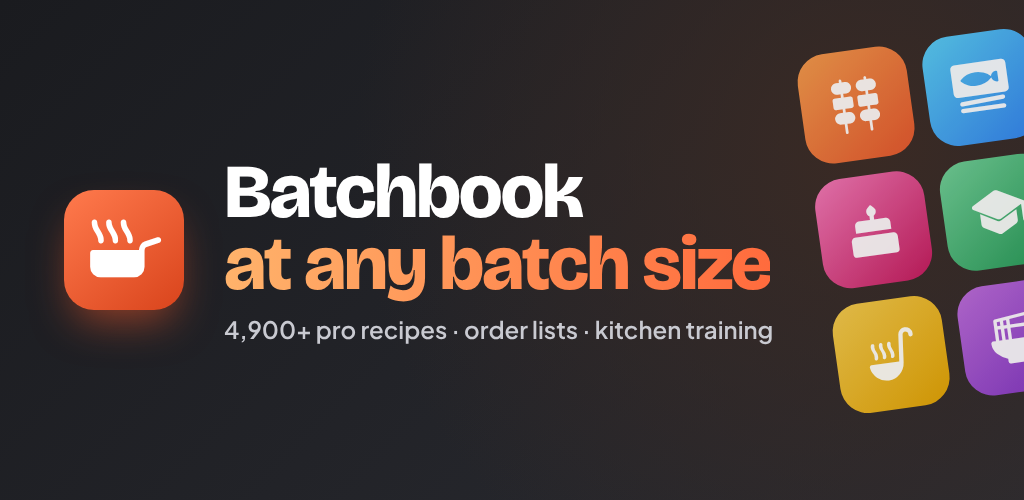
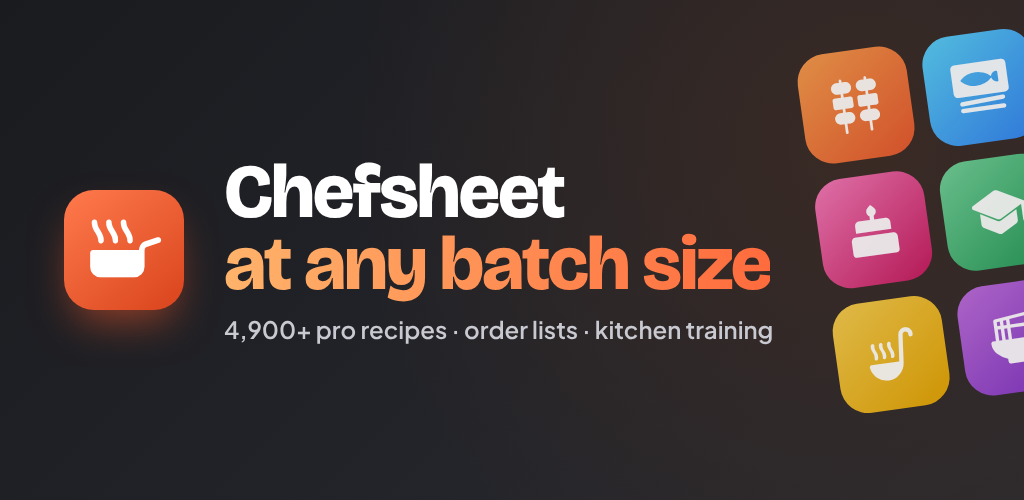
Rename the app to Chefsheet
Name, manifest, privacy policy, README, store listing, feature graphic
and screenshots. Play title shortened to 30 characters. Cache version bumped.

Claude-Session: https://claude.ai/code/session_01U632z7sGB7EKoKSd2kKhrr

Changed region(s): [[0.2188, 0.3, 0.5938, 0.45]]

diff --git a/index.html b/index.html
@@ -2,14 +2,14 @@
 <html lang="en"><head><meta charset="utf-8">
 <meta name="viewport" content="width=device-width,initial-scale=1,viewport-fit=cover">
 <meta name="description" content="Professional recipes at any batch size: 4,900+ technical recipe cards, order lists and kitchen training.">
-<meta property="og:type" content="website"><meta property="og:site_name" content="Batchbook">
-<meta property="og:title" content="Batchbook – professional recipes at any batch size">
+<meta property="og:type" content="website"><meta property="og:site_name" content="Chefsheet">
+<meta property="og:title" content="Chefsheet – professional recipes at any batch size">
 <meta property="og:description" content="4,900+ technical recipe cards for professional kitchens: scale any batch, build supplier order lists, learn with lessons and kitchen tools.">
 <meta property="og:url" content="https://plamenn000234.github.io/"><meta property="og:image" content="https://plamenn000234.github.io/store/feature-graphic-1024x500.png">
 <meta name="twitter:card" content="summary_large_image"><link rel="canonical" href="https://plamenn000234.github.io/">
 <link rel="icon" href="icon-192.png"><link rel="apple-touch-icon" href="icon-192.png">
 <style>[hidden]{display:none!important}body{margin:0}</style>
-<title>Batchbook</title>
+<title>Chefsheet</title>
 <link rel="preconnect" href="https://fonts.googleapis.com">
 <link rel="stylesheet" href="https://fonts.googleapis.com/css2?family=Bricolage+Grotesque:opsz,wght@12..96,600;12..96,700;12..96,800&family=Plus+Jakarta+Sans:wght@400;500;600;700;800&family=JetBrains+Mono:wght@500;600&display=swap">
 <link rel="manifest" href="manifest.json"><meta name="theme-color" content="#E2552B">
@@ -470,7 +470,7 @@ body.cook .sh-head h1{font-size:clamp(24px,3.4vw,34px)}
 </style>
 </head><body>
 <header class="top">
-  <a class="logo" href="#" aria-label="Batchbook home"><span class="lg"><span class="ms f">skillet</span></span><b>Batchbook</b></a>
+  <a class="logo" href="#" aria-label="Chefsheet home"><span class="lg"><span class="ms f">skillet</span></span><b>Chefsheet</b></a>
   <div class="search" role="search">
     <span class="ms" aria-hidden="true">search</span>
     <input id="q" type="search" autocomplete="off" enterkeyhint="search" placeholder="Search recipes or ingredients" aria-label="Search recipes or ingredients">
@@ -662,7 +662,7 @@ function viewHome(){
       <div class="sec"><div class="sec-h"><h2>How it works</h2></div><div class="how">
         <div>${msI("search")}<b>Find</b><p>Search by dish or by ingredient, then filter by diet, calories or the 14 allergens.</p></div>
         <div>${msI("tune")}<b>Scale</b><p>Open a recipe and set your portions. Every quantity in every component follows.</p></div>
-        <div>${msI("receipt_long")}<b>Order</b><p>Add dishes, set guests and grams per guest, and get a gross order list by section.</p></div></div>${STANDALONE?`<p class="note-line" style="text-align:center"><a href="privacy.html">Privacy policy</a> · Batchbook 1.0</p>`:""}</div>`;
+        <div>${msI("receipt_long")}<b>Order</b><p>Add dishes, set guests and grams per guest, and get a gross order list by section.</p></div></div>${STANDALONE?`<p class="note-line" style="text-align:center"><a href="privacy.html">Privacy policy</a> · Chefsheet 1.0</p>`:""}</div>`;
     return;
   }
   const list=filtered(); const title=ui.coll>=0?D.folders[ui.coll][0]:(ui.q?`Results for “${ui.q}”`:"All recipes");
@@ -871,7 +871,7 @@ function recipePdf(r,d){
     y+=4});
   if(d.st){const ls=doc.splitTextToSize(pdfSafe("Storage: "+d.st),W-2*M);page(ls.length*4.4);doc.setFontSize(9.5);doc.text(ls,M,y);y+=ls.length*4.4+2}
   if(d.nu&&d.nu.p){page(6);doc.text(pdfSafe(`Nutrition per portion: protein ${d.nu.p[0]} g, fat ${d.nu.p[1]} g, carbs ${d.nu.p[2]} g, ${d.nu.p[3]} kcal`),M,y);y+=6}
-  page(6); doc.setFontSize(8); doc.setTextColor(110,110,110); doc.text("Made with Batchbook. Check product labels for allergens.",M,y);
+  page(6); doc.setFontSize(8); doc.setTextColor(110,110,110); doc.text("Made with Chefsheet. Check product labels for allergens.",M,y);
   return doc.output("arraybuffer");
 }
 async function copyText(t,msg){try{await navigator.clipboard.writeText(t);toast(msg)}catch(e){const ta=document.createElement("textarea");ta.value=t;document.body.appendChild(ta);ta.select();try{document.execCommand("copy");toast(msg)}catch(_){toast("Select the text and copy it")}ta.remove()}}

diff --git a/privacy.html b/privacy.html
@@ -1,7 +1,7 @@
 <!doctype html>
 <html lang="en"><head><meta charset="utf-8">
 <meta name="viewport" content="width=device-width,initial-scale=1">
-<title>Batchbook Privacy Policy</title>
+<title>Chefsheet Privacy Policy</title>
 <link rel="icon" href="icon-192.png">
 <style>
 :root{--bg:#F3F3F1;--surface:#fff;--ink:#17181B;--muted:#6A6D74;--line:#E1E1DD;--accent:#E2552B}
@@ -17,13 +17,13 @@ a{color:var(--accent)}
 ul{padding-left:20px}
 </style></head>
 <body><main>
-<h1>Batchbook Privacy Policy</h1>
+<h1>Chefsheet Privacy Policy</h1>
 <p class="muted">Effective date: 25 November 2026</p>
 
-<p>Batchbook is a recipe and kitchen-training app. It is built to work without an account and does not collect personal data.</p>
+<p>Chefsheet is a recipe and kitchen-training app. It is built to work without an account and does not collect personal data.</p>
 
 <h2>What we collect</h2>
-<p>Nothing. Batchbook has no sign-up, no analytics, no advertising and no tracking. We do not sell or share any data.</p>
+<p>Nothing. Chefsheet has no sign-up, no analytics, no advertising and no tracking. We do not sell or share any data.</p>
 
 <h2>What stays on your device</h2>
 <p>To make the app useful, it saves the following only in your device's browser storage:</p>
@@ -42,7 +42,7 @@ ul{padding-left:20px}
 <p>The app loads fonts from Google Fonts and a PDF library from cdnjs (Cloudflare). Like any website, these services receive your IP address and basic browser information when the files are downloaded. They do not receive any of your app data. See the <a href="https://policies.google.com/privacy">Google Privacy Policy</a> and the <a href="https://www.cloudflare.com/privacypolicy/">Cloudflare Privacy Policy</a>.</p>
 
 <h2>Children</h2>
-<p>Batchbook is meant for adults working in kitchens. Some recipes contain alcohol. The app does not knowingly collect any data from anyone, including children.</p>
+<p>Chefsheet is meant for adults working in kitchens. Some recipes contain alcohol. The app does not knowingly collect any data from anyone, including children.</p>
 
 <h2>Recipe information</h2>
 <p>Allergen, diet and nutrition information is derived from the listed ingredients and is an estimate. Always check the labels of the products you use.</p>

diff --git a/sw.js b/sw.js
@@ -1,5 +1,5 @@
-/* Batchbook offline cache. Used by the standalone (Google Play) version only. */
-const V="bb-v19-1";
+/* Chefsheet offline cache. Used by the standalone (Google Play) version only. */
+const V="bb-v20-1";
 const SHELL=["./","index.html","index.json","learn.json","manifest.json","icon-192.png","icon-512.png","icon-maskable-512.png"];
 self.addEventListener("install",e=>{e.waitUntil(caches.open(V).then(c=>c.addAll(SHELL)).then(()=>self.skipWaiting()))});
 self.addEventListener("activate",e=>{e.waitUntil(caches.keys().then(ks=>Promise.all(ks.filter(k=>k!==V).map(k=>caches.delete(k)))).then(()=>self.clients.claim()))});

diff --git a/404.html b/404.html
@@ -1,1 +1,1 @@
-<!doctype html><html lang="en"><head><meta charset="utf-8"><title>Batchbook</title><meta http-equiv="refresh" content="0; url=./index.html"></head><body><a href="./index.html">Open Batchbook</a></body></html>
+<!doctype html><html lang="en"><head><meta charset="utf-8"><title>Chefsheet</title><meta http-equiv="refresh" content="0; url=./index.html"></head><body><a href="./index.html">Open Chefsheet</a></body></html>

diff --git a/README.md b/README.md
@@ -1,4 +1,4 @@
-# Batchbook
+# Chefsheet
 
 **Professional recipes at any batch size.** 4,900+ technical recipe cards, supplier order lists and kitchen training in one app.
 
@@ -6,7 +6,7 @@
 
 ## Who it is for
 
-Batchbook is made for **kitchen professionals**: chefs, sous chefs, chefs de partie, pastry chefs, banquet and buffet teams, catering and hotel kitchens, and culinary students.
+Chefsheet is made for **kitchen professionals**: chefs, sous chefs, chefs de partie, pastry chefs, banquet and buffet teams, catering and hotel kitchens, and culinary students.
 
 Recipes are written as professional technical cards: net weights in grams, batch yields, portion sizes, allergens and storage. Quantities and methods assume a professional kitchen and trained staff.
 
@@ -39,4 +39,4 @@ Allergen, diet and nutrition data are derived from the listed ingredients and ar
 
 [Privacy policy](https://plamenn000234.github.io/privacy.html) · Contact: plamenn000234@gmail.com
 
-© 2026 Batchbook. All rights reserved. Recipes, texts and code may not be copied or redistributed without permission.
+© 2026 Chefsheet. All rights reserved. Recipes, texts and code may not be copied or redistributed without permission.

diff --git a/store/listing.md b/store/listing.md
@@ -1,12 +1,12 @@
 # Google Play store listing
 
-**App name (max 30):** Batchbook – Pro Kitchen Recipes
+**App name (max 30):** Chefsheet: Pro Kitchen Recipes
 
 **Short description (max 80):**
 4,900+ professional recipes you can scale to any batch, plus order lists.
 
 **Full description (max 4000):**
-Batchbook is a recipe library built for professional kitchens: hotels, banquets, buffets, restaurants and catering.
+Chefsheet is a recipe library built for professional kitchens: hotels, banquets, buffets, restaurants and catering.
 
 SCALE ANY RECIPE
 • 4,900+ technical recipe cards in 100+ collections: cuisines, courses, buffet, banquet, pastry, bakery, fine dining and more
